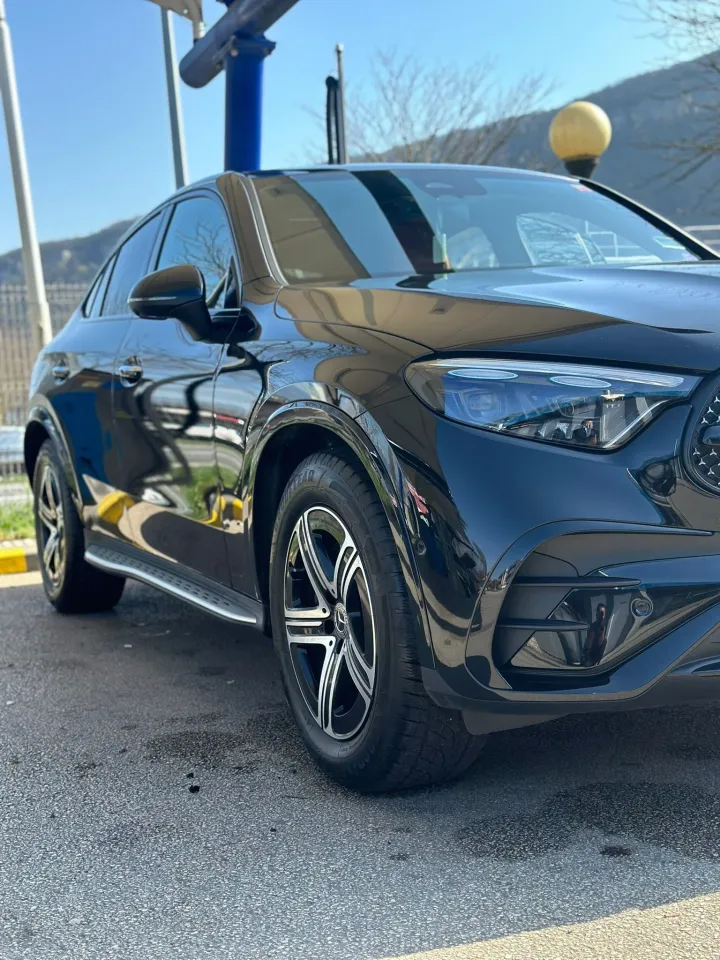
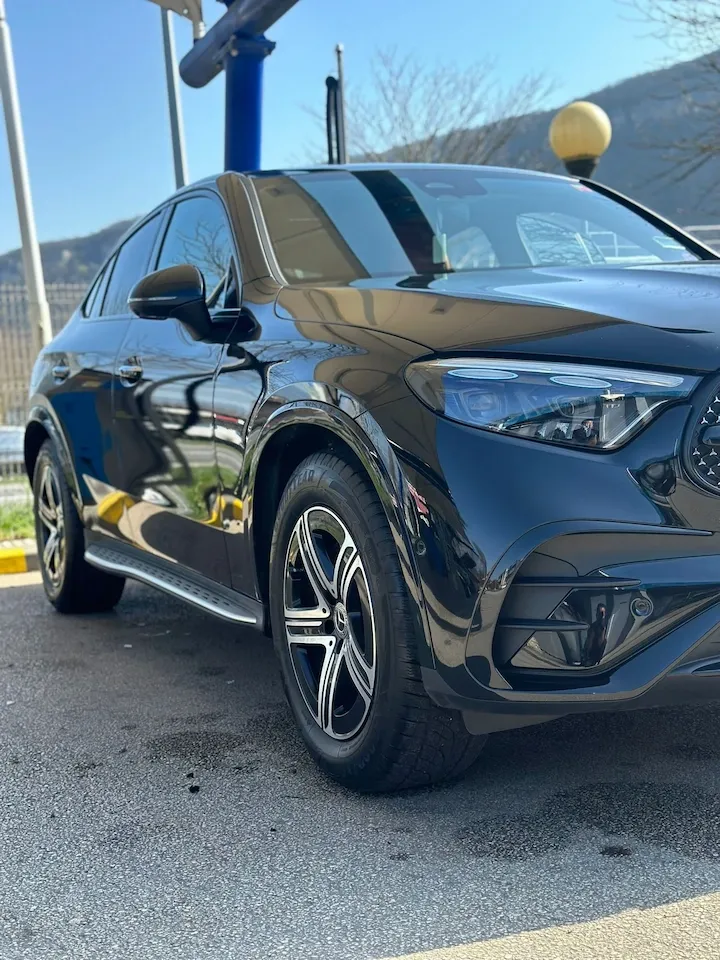
perf(Clean Cars Wash): optimisation finale LCP (hero background local) et suppression des forced reflows JS

diff --git a/index.html b/index.html
@@ -39,7 +39,7 @@
 
     <link rel="preconnect" href="https://fonts.googleapis.com">
     <link rel="preconnect" href="https://fonts.gstatic.com" crossorigin>
-    <link rel="preload" as="image" href="https://images.unsplash.com/photo-1601362840469-51e4d8d58785?q=80&w=2070&auto=format&fit=crop" fetchpriority="high">
+    <link rel="preload" as="image" href="assets/images/hero-bg-opt.webp" fetchpriority="high">
 
     <script type="application/ld+json">
     {
@@ -117,6 +117,11 @@
 
     <link rel="preload" as="style" href="https://fonts.googleapis.com/css2?family=Inter:wght@300;400;500&family=Montserrat:wght@300;400;600;700&display=swap" onload="this.onload=null;this.rel='stylesheet'">
     <noscript><link href="https://fonts.googleapis.com/css2?family=Inter:wght@300;400;500&family=Montserrat:wght@300;400;600;700&display=swap" rel="stylesheet"></noscript>
+    <style>
+        .bg-hero{background-image:linear-gradient(to bottom,rgba(10,10,10,.4),rgba(10,10,10,1)),url('assets/images/hero-bg-opt.webp');background-size:cover;background-position:center}
+        #mobile-menu{max-height:0;opacity:0;overflow:hidden;transition:max-height .3s ease-in-out,opacity .3s ease-in-out}
+        #mobile-menu.open{max-height:500px;opacity:1}
+    </style>
     <link rel="stylesheet" href="assets/css/tailwind.min.css">
     <link rel="stylesheet" href="assets/css/style.css">
 </head>
@@ -284,7 +289,10 @@
                     <div id="slider-track" class="flex transition-transform duration-700 ease-in-out w-full">
                         
                         <div class="w-full flex-shrink-0 relative group h-[50vh] md:h-[60vh] min-h-[350px] overflow-hidden" role="group" aria-roledescription="diapositive" aria-label="1 sur 3">
-                            <img src="assets/images/MB-01-opt.webp" alt="Mercedes — Étape 1 : préparation de la surface avant detailing" width="800" height="600" class="img-fade" fetchpriority="high">
+                            <img src="assets/images/MB-01-opt.webp"
+                                 srcset="assets/images/MB-01-opt-sm.webp 400w, assets/images/MB-01-opt.webp 800w"
+                                 sizes="(max-width: 480px) 400px, 800px"
+                                 alt="Mercedes — Étape 1 : préparation de la surface avant detailing" width="800" height="600" class="img-fade" fetchpriority="high">
                             <img src="assets/images/MB-02-opt.webp" alt="Application de shampoing sur jantes et plastiques Mercedes — étape 2 detailing" width="800" height="600" class="img-fade" loading="lazy">
                             <img src="assets/images/MB-03-opt.webp" alt="Finition cire et brillance finale sur carrosserie Mercedes — étape 3 detailing" width="800" height="600" class="img-fade" loading="lazy">
                             <div class="absolute inset-0 slide-overlay flex flex-col justify-end p-6 md:p-10 z-10">
@@ -816,11 +824,18 @@
 
     <script>
         // GRADE S : Barre de progression dorée
+        let _scrollTicking = false;
         window.addEventListener('scroll', () => {
-            const winScroll = document.body.scrollTop || document.documentElement.scrollTop;
-            const height = document.documentElement.scrollHeight - document.documentElement.clientHeight;
-            const scrolled = (winScroll / height) * 100;
-            document.getElementById("scroll-progress").style.width = scrolled + "%";
+            if (!_scrollTicking) {
+                requestAnimationFrame(() => {
+                    const winScroll = document.body.scrollTop || document.documentElement.scrollTop;
+                    const height = document.documentElement.scrollHeight - document.documentElement.clientHeight;
+                    const scrolled = (winScroll / height) * 100;
+                    document.getElementById("scroll-progress").style.width = scrolled + "%";
+                    _scrollTicking = false;
+                });
+                _scrollTicking = true;
+            }
         });
 
         // Menu Mobile & ARIA

diff --git a/en/index.html b/en/index.html
@@ -39,7 +39,7 @@
 
     <link rel="preconnect" href="https://fonts.googleapis.com">
     <link rel="preconnect" href="https://fonts.gstatic.com" crossorigin>
-    <link rel="preload" as="image" href="https://images.unsplash.com/photo-1601362840469-51e4d8d58785?q=80&w=2070&auto=format&fit=crop" fetchpriority="high">
+    <link rel="preload" as="image" href="../assets/images/hero-bg-opt.webp" fetchpriority="high">
 
     <script type="application/ld+json">
     {
@@ -118,6 +118,11 @@
 
     <link rel="preload" as="style" href="https://fonts.googleapis.com/css2?family=Inter:wght@300;400;500&family=Montserrat:wght@300;400;600;700&display=swap" onload="this.onload=null;this.rel='stylesheet'">
     <noscript><link href="https://fonts.googleapis.com/css2?family=Inter:wght@300;400;500&family=Montserrat:wght@300;400;600;700&display=swap" rel="stylesheet"></noscript>
+    <style>
+        .bg-hero{background-image:linear-gradient(to bottom,rgba(10,10,10,.4),rgba(10,10,10,1)),url('../assets/images/hero-bg-opt.webp');background-size:cover;background-position:center}
+        #mobile-menu{max-height:0;opacity:0;overflow:hidden;transition:max-height .3s ease-in-out,opacity .3s ease-in-out}
+        #mobile-menu.open{max-height:500px;opacity:1}
+    </style>
     <link rel="stylesheet" href="../assets/css/tailwind.min.css">
     <link rel="stylesheet" href="../assets/css/style.css">
 </head>
@@ -285,7 +290,10 @@
                     <div id="slider-track" class="flex transition-transform duration-700 ease-in-out w-full">
                         
                         <div class="w-full flex-shrink-0 relative group h-[50vh] md:h-[60vh] min-h-[350px] overflow-hidden" role="group" aria-roledescription="slide" aria-label="1 of 3">
-                            <img src="../assets/images/MB-01-opt.webp" alt="Mercedes — Step 1: surface preparation before detailing" width="800" height="600" class="img-fade" fetchpriority="high">
+                            <img src="../assets/images/MB-01-opt.webp"
+                                 srcset="../assets/images/MB-01-opt-sm.webp 400w, ../assets/images/MB-01-opt.webp 800w"
+                                 sizes="(max-width: 480px) 400px, 800px"
+                                 alt="Mercedes — Step 1: surface preparation before detailing" width="800" height="600" class="img-fade" fetchpriority="high">
                             <img src="../assets/images/MB-02-opt.webp" alt="Shampoo application on Mercedes wheels and trim — detailing step 2" width="800" height="600" class="img-fade" loading="lazy">
                             <img src="../assets/images/MB-03-opt.webp" alt="Final wax and shine on Mercedes bodywork — detailing step 3" width="800" height="600" class="img-fade" loading="lazy">
                             <div class="absolute inset-0 slide-overlay flex flex-col justify-end p-6 md:p-10 z-10">
@@ -816,11 +824,18 @@
 
     <script>
         // GRADE S: Golden Progress Bar
+        let _scrollTicking = false;
         window.addEventListener('scroll', () => {
-            const winScroll = document.body.scrollTop || document.documentElement.scrollTop;
-            const height = document.documentElement.scrollHeight - document.documentElement.clientHeight;
-            const scrolled = (winScroll / height) * 100;
-            document.getElementById("scroll-progress").style.width = scrolled + "%";
+            if (!_scrollTicking) {
+                requestAnimationFrame(() => {
+                    const winScroll = document.body.scrollTop || document.documentElement.scrollTop;
+                    const height = document.documentElement.scrollHeight - document.documentElement.clientHeight;
+                    const scrolled = (winScroll / height) * 100;
+                    document.getElementById("scroll-progress").style.width = scrolled + "%";
+                    _scrollTicking = false;
+                });
+                _scrollTicking = true;
+            }
         });
 
         // Mobile Menu & ARIA

diff --git a/optimize-images.js b/optimize-images.js
@@ -44,6 +44,22 @@ const tasks = [
         format: 'webp',
         quality: 90,
         label: 'logo-v2.png → logo-v2.webp'
+    },
+    {
+        input: path.join(IMAGES_DIR, 'hero-bg-raw.jpg'),
+        output: path.join(IMAGES_DIR, 'hero-bg-opt.webp'),
+        width: 1200,
+        format: 'webp',
+        quality: 75,
+        label: 'hero-bg-raw.jpg → hero-bg-opt.webp (LCP hero background)'
+    },
+    {
+        input: path.join(IMAGES_DIR, 'MB-01-opt.webp'),
+        output: path.join(IMAGES_DIR, 'MB-01-opt-sm.webp'),
+        width: 400,
+        format: 'webp',
+        quality: 80,
+        label: 'MB-01-opt.webp → MB-01-opt-sm.webp (mobile srcset)'
     }
 ];
 

diff --git a/assets/css/style.css b/assets/css/style.css
@@ -9,7 +9,7 @@ body {
 
 /* Le reste de ton code ne change pas... */
 .bg-hero {
-    background-image: linear-gradient(to bottom, rgba(10, 10, 10, 0.4), rgba(10, 10, 10, 1)), url('https://images.unsplash.com/photo-1601362840469-51e4d8d58785?q=80&w=2070&auto=format&fit=crop');
+    background-image: linear-gradient(to bottom, rgba(10, 10, 10, 0.4), rgba(10, 10, 10, 1)), url('../images/hero-bg-opt.webp');
     background-size: cover;
     background-position: center;
 }
